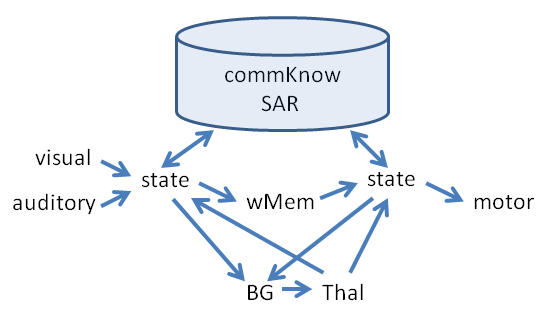
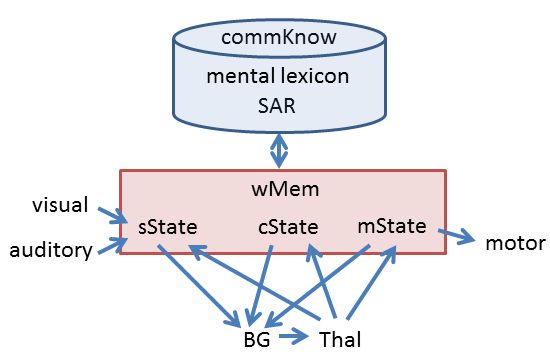
Additional final edits
In order to keep figure 4 and 5 consistent.

Changed region(s): [[0.0, 0.0283, 0.9982, 0.9906]]

diff --git a/kroger.tex b/kroger.tex
@@ -439,7 +439,7 @@ a preliminary architecture for speech production is introduced.
 \section{The architecture of the speech production model}
 
 A speech production model should be made up of a cognitive component
-(mental lexicon) as well as a sensorimotor component (speech action
+(mental lexicon and general communicative knowledge) as well as a sensorimotor component (speech action
 repository, SAR, and a production-perception loop; see
 \cite{kroger2009,kroger2014,kroger2012,kroger2011a,eckers2013,eckers2013a,kroger2010}).
 It is a key feature of our ongoing work on modeling speech production
@@ -496,14 +496,17 @@ the words corresponding to those digits.
 \centering
 \includegraphics[width=\columnwidth]{model}
 \caption{High-level NEF model architecture for syllable and word processing.
-  ``commKnow'' and ``SAR'' represent a neural long-term knowledge
-  (communicative knowledge like a mental lexicon, and syllable action
+  ``commKnow'', ``mental lexicon'' and ``SAR'' represent a neural long-term knowledge
+  (communicative knowledge, mental lexicon, and syllable action
   repository). ``wMem'' represents the working memory, ``BG'' the
   basal ganglia network, and ``Thal'' the thalamus
-  network. Semantic pointers can be activated and processed in both
-  state networks on the basis of audiovisual input (left state
-  network: perceptual state network) or at the level of motor planning
-  (right state network: action planning network; see also text).}
+  network. The working memory includes current high level sensory, cognitive, and
+  motor plan states (``sState, cState, mState''). High level sensory states can
+  be activated from sensory input (bottom-up) or from mental lexicon (top-down).
+  Cognitive states like phonemic representations of syllables may be activated
+  from visual input (e.g. reading letters) via BG-Thalamus and mental lexicon. Motor plans may
+  be activated from phonemic representations in working memory via BG-Thalamus
+  and SAR as well as a learned auditory states of the currently activated syllables.}
 \label{fig:model}
 \end{figure}
 
